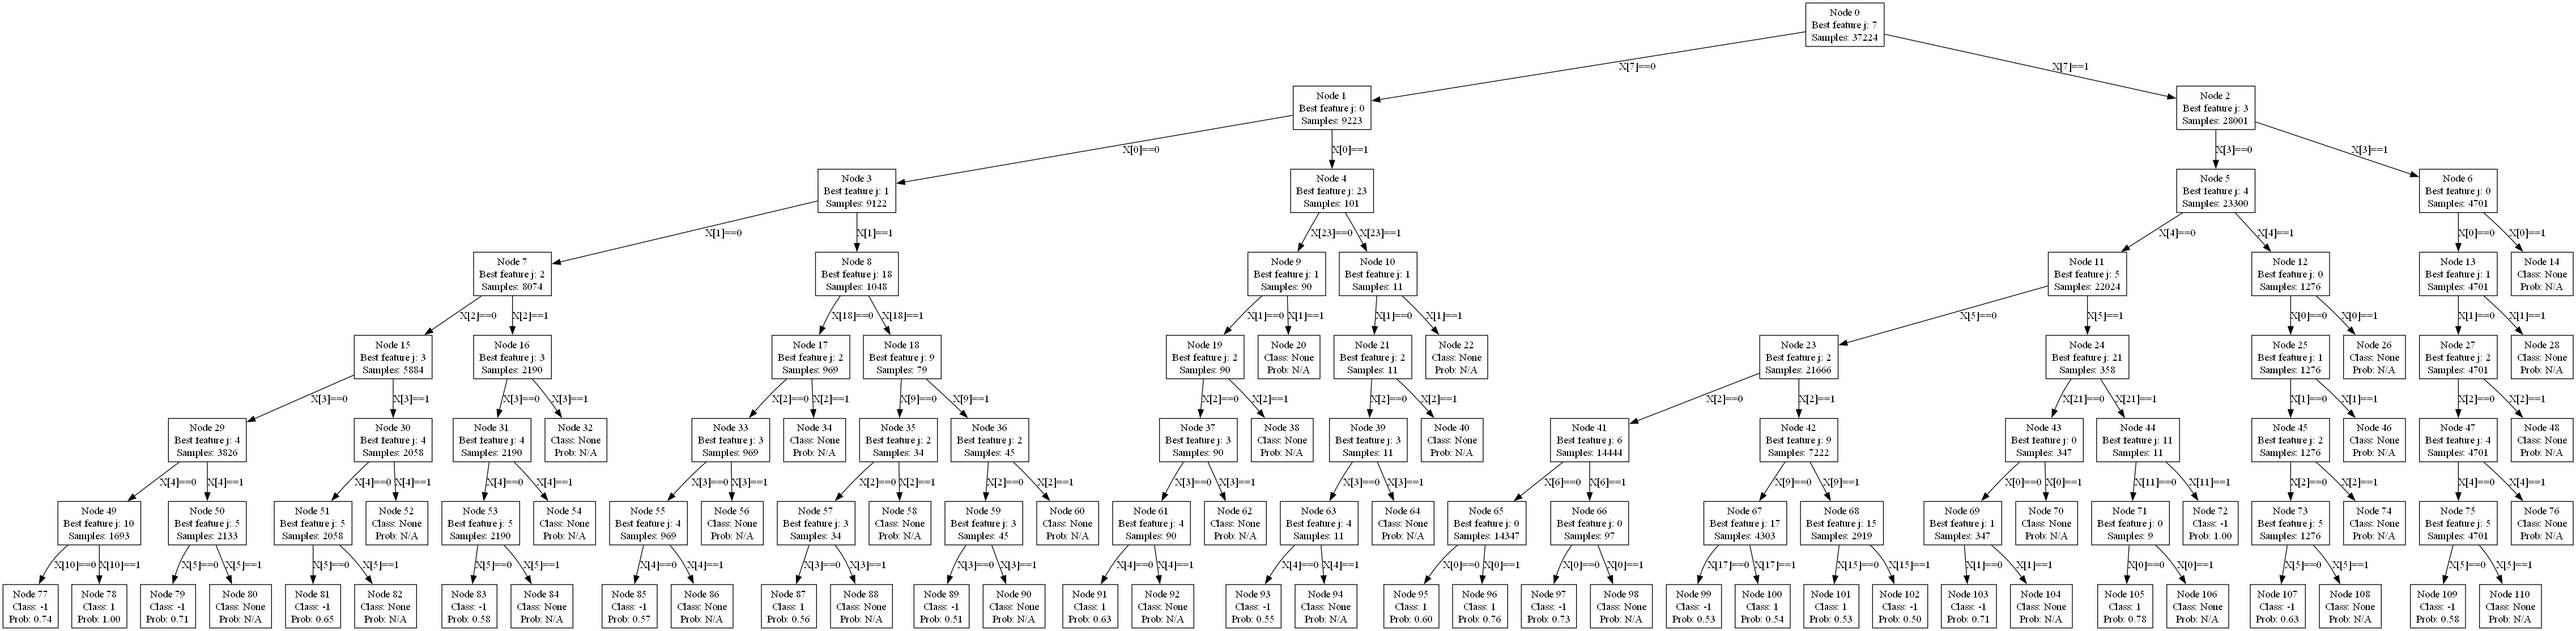
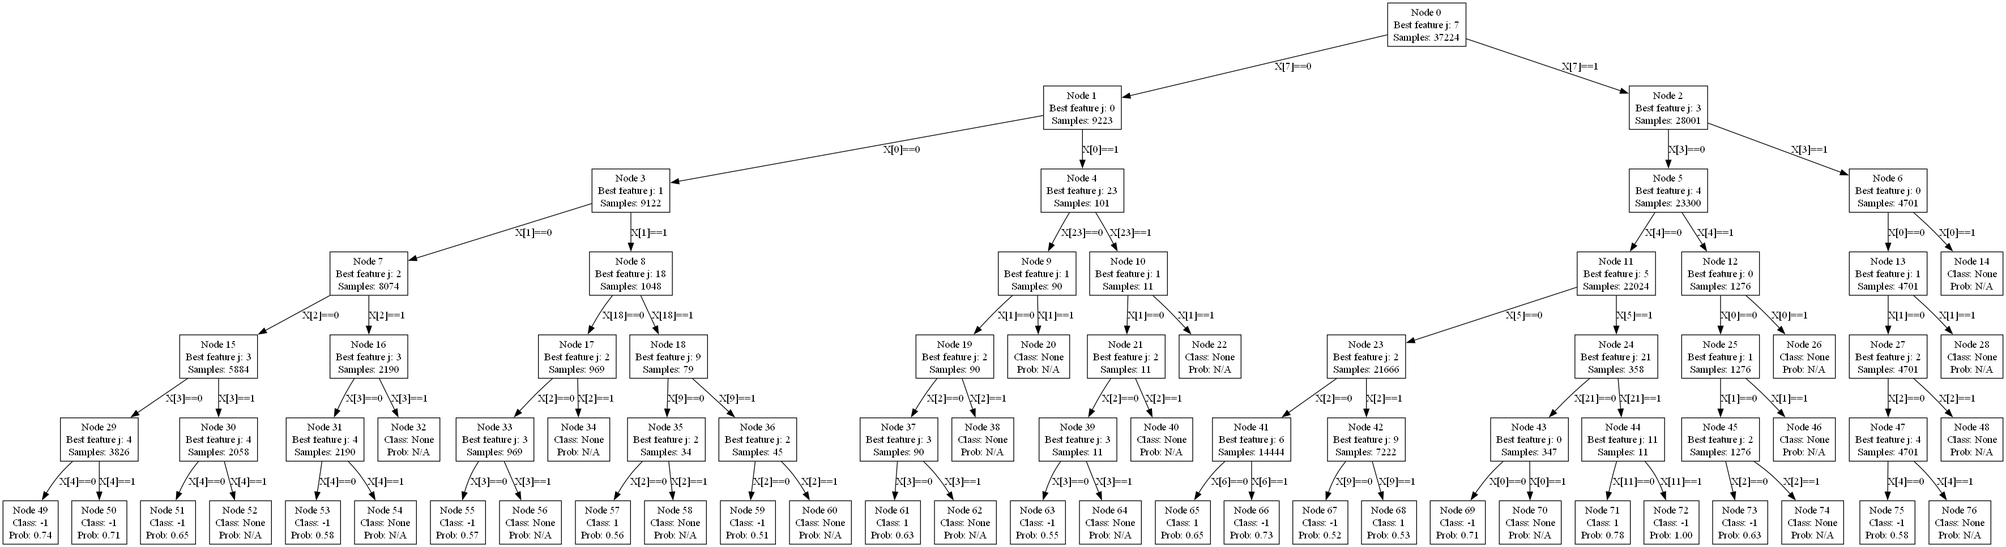
Clarify 1st stopping condition

diff --git a/c3mod5assignment/tree_binary_classifier.py b/c3mod5assignment/tree_binary_classifier.py
@@ -69,11 +69,13 @@ class TreeBinaryClassifier:
         c2.used_features_current_path = pn.used_features_current_path.copy()
         c1.used_features_current_path.append(selected_j)
         c2.used_features_current_path.append(selected_j)
+
+        #Stopping condition 1 For the deepest leafs current_depth eq. max_depth and we split no futher
         c1.current_depth = pn.current_depth + 1
-        if c1.current_depth > self.max_depth:
+        if c1.current_depth >= self.max_depth:
             c1.is_leaf = True
         c2.current_depth = pn.current_depth + 1
-        if c2.current_depth > self.max_depth:
+        if c2.current_depth >= self.max_depth:
             c2.is_leaf = True
 
         #Now add the relations
